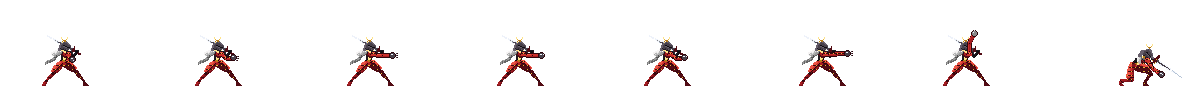
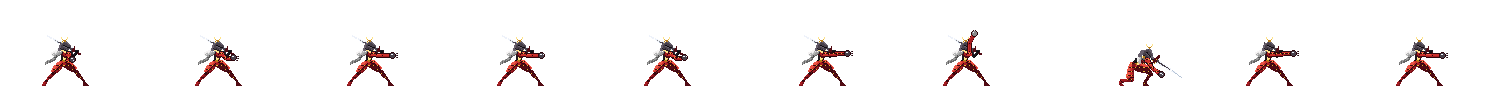
Give Lacy a side special: Blade Toss
She hurls her sword forward; it slows to a stop and spins in place in
a ring of light for ~1.5 s (hold special to keep it spinning up to
2.5 s), hitting every 12 frames and holding opponents in the whirl,
then flies back to her hand, striking anything on the way (about 24%
if the whole thing connects). She waits swordless with her hand out
(floating down slowly in the air) until she catches it. Shields and
counters knock the sword straight back to her.

Two swordless frames added to the grab strip (and its Battle-Worn and
Samurai versions). Persistent projectiles no longer vanish on hit.

Claude-Session: https://claude.ai/code/session_01AaKM2UtvBNaxxAqtTBwtFb

diff --git a/src/fighters/entities.js b/src/fighters/entities.js
@@ -230,3 +230,85 @@ export class Soul {
     else s.setTint(0xffffff).setTintMode(Phaser.TintModes.MULTIPLY);
   }
 }
+
+// Lacy's side special, Blade Toss: her sword flies out, spins in place in front of her for a couple of
+// seconds (holding the button keeps it spinning longer), then flies back to her hand.
+//   out    - thrown forward, slowing to a stop (one hit)
+//   spin   - whirls in place, hitting again every few frames and holding opponents in it
+//   return - homes back to her hand, striking anything on the way
+// She can't attack while it's gone. Blocked or countered, it bounces straight back to her.
+export class ThrownSword {
+  constructor(match, owner, spec) {
+    this.match = match; this.owner = owner; this.spec = spec;
+    this.dir = owner.facing;
+    this.x = owner.x + owner.facing * 18; this.y = owner.y - 34;
+    this.vx = this.dir * spec.speed; this.vy = 0;
+    this.phase = 'out'; this.t = 0; this.pt = 0; this.ang = 0; this.alive = true;
+    this.id = nextId++; this.persist = true;
+    this.g = match.add.graphics();
+    match.addWorld(this.g);
+    sfx('swing', 0.8, 0.7);
+  }
+  hitbox() {
+    const S = this.spec, r = this.phase === 'spin' ? S.spinR : 14;
+    const h = this.phase === 'out' ? S.out : this.phase === 'spin' ? S.spin : S.ret;
+    const id = this.phase === 'spin' ? this.id + ':' + Math.floor(this.pt / S.spinEvery) : this.id + this.phase;   // a fresh hit every few frames while spinning
+    return { x1: this.x - r, x2: this.x + r, y1: this.y - r, y2: this.y + r, h, owner: this.owner, id, facing: Math.sign(this.vx) || this.dir, projectile: this, persist: true };
+  }
+  step() {
+    const S = this.spec, o = this.owner;
+    this.t++; this.pt++;
+    if (!o.alive) { this.kill(); return; }
+    if (this.phase === 'out') {
+      this.vx -= this.dir * S.decel;
+      this.ang += 0.6;
+      if (Math.sign(this.vx) !== this.dir || this.pt > 20) { this.vx = 0; this.phase = 'spin'; this.pt = 0; sfx('dodge', 0.5, 0.7); }
+    } else if (this.phase === 'spin') {
+      this.ang += 0.75;
+      this.vx = 0; this.vy = Math.sin(this.pt * 0.12) * 0.25;
+      const held = o.ctrl && o.ctrl.held && o.ctrl.held('special');
+      if (this.pt % 9 === 0) sfx('swing', 0.35, 1.3);
+      if (this.pt >= S.spinTime + (held ? S.holdExtra : 0) || this.pt >= S.spinTime + S.holdExtra) this.recall();
+    } else {
+      this.ang += 0.5;
+      const tx = o.x + o.facing * 14, ty = o.y - 34, dx = tx - this.x, dy = ty - this.y, d = Math.hypot(dx, dy) || 1;
+      const sp = Math.min(S.returnSpeed + this.pt * 0.15, 14);
+      this.vx = dx / d * sp; this.vy = dy / d * sp;
+      if (d < 16) { this.caught(); return; }
+    }
+    this.x += this.vx; this.y += this.vy;
+    if (this.t % 3 === 0) this.match.puff(this.x, this.y, this.owner.fxColor, 1);
+  }
+  recall() { if (this.phase !== 'return') { this.phase = 'return'; this.pt = 0; sfx('djump', 0.5, 1.2); } }
+  // projectiles get killed when they're blocked or countered: the sword bounces back to her instead
+  kill() {
+    if (!this.alive) return;
+    if (this.owner.alive && this.phase !== 'return' && this.t > 0) { this.recall(); return; }
+    this.remove();
+  }
+  caught() { this.match.puff(this.x, this.y, 0xffffff, 6); sfx('shield', 0.6, 1.4); this.remove(); if (this.owner.swordOut === this) this.owner.catchSword(); }
+  remove() { this.alive = false; this.g.destroy(); if (this.owner.swordOut === this) this.owner.swordOut = null; }
+  render() {
+    if (!this.alive) return;
+    const g = this.g, x = this.x, y = this.y, L = 18, c = Math.cos(this.ang), s = Math.sin(this.ang), col = this.owner.fxColor;
+    g.clear();
+    if (this.phase === 'spin') {                    // the blur of the spinning blade and a ring of light
+      g.fillStyle(col, 0.16); g.fillCircle(x, y, this.spec.spinR);
+      g.lineStyle(2, 0xffffff, 0.5); g.strokeCircle(x, y, this.spec.spinR - 2);
+      for (let k = 1; k <= 5; k++) {
+        const a = this.ang - k * 0.32;
+        g.lineStyle(3, col, 0.55 - k * 0.1);
+        g.lineBetween(x - Math.cos(a) * L, y - Math.sin(a) * L, x + Math.cos(a) * L, y + Math.sin(a) * L);
+      }
+    } else {
+      for (let k = 1; k <= 3; k++) { g.fillStyle(col, 0.35 - k * 0.1); g.fillCircle(x - this.vx * k * 1.2, y - this.vy * k * 1.2, 6 - k); }
+    }
+    // the sword: dark outline, steel blade with a bright edge, crossguard and grip
+    const tipX = x + c * L, tipY = y + s * L, butX = x - c * L * 0.55, butY = y - s * L * 0.55;
+    g.lineStyle(4, 0x14181c, 1); g.lineBetween(butX, butY, tipX, tipY);
+    g.lineStyle(2, 0xc9c9c9, 1); g.lineBetween(x - c * 3, y - s * 3, tipX, tipY);
+    g.lineStyle(1, 0xffffff, 1); g.lineBetween(x, y, tipX - c, tipY - s);
+    g.lineStyle(3, this.owner.dragonSpin ? 0xf3c358 : 0x6a7880, 1); g.lineBetween(x - c * 3 - s * 5, y - s * 3 + c * 5, x - c * 3 + s * 5, y - s * 3 - c * 5);   // crossguard
+    g.lineStyle(2, 0x2a2430, 1); g.lineBetween(x - c * 4, y - s * 4, butX, butY);                                                                         // grip
+  }
+}

diff --git a/src/fighters/Fighter.js b/src/fighters/Fighter.js
@@ -170,7 +170,7 @@ export class Fighter {
       this.buffer.special = 0;
       if (c.down) { if (M.summon) this.startSummon(); else if (M.counter) this.startCounter(); else if (M.downB) this.startAttack('downB'); return true; }
       if (c.up) { if (this.usedUpB) return false; this.startUpB(c); return true; }
-      if (Math.abs(c.x) > 0.5) { this.facing = Math.sign(c.x); if (M.sideB) { this.startAttack('sideB'); return true; } }
+      if (Math.abs(c.x) > 0.5) { this.facing = Math.sign(c.x); if (M.sideB && M.sideB.sword) { if (!this.swordOut) this.startSwordThrow(); return !this.swordOut || this.state === 'swordthrow'; } if (M.sideB) { this.startAttack('sideB'); return true; } }
       if (M.fireball) this.startCharge(); else if (M.neutralB) this.startAttack('neutralB');
       return true;
     }
@@ -293,6 +293,23 @@ export class Fighter {
   }
   st_grabbed() {
     if (!this.grabbedBy || this.t > 60) { this.grabbedBy = null; this.setState('idle'); }
+  }
+
+  // ---- side special (Lacy): Blade Toss - throw the sword, it spins in front of her, then flies back
+  startSwordThrow() {
+    this.setState('swordthrow'); this.lx = 0;
+    if (this.grounded) this.vx *= 0.3;
+  }
+  st_swordthrow(c) {
+    const S = this.def.moves.sideB.sword;
+    if (this.t === S.throwAt) this.swordOut = this.match.spawnSword(this, S);
+    if (!this.grounded) this.vy = Math.min(this.vy, 2.2);          // floats down slowly while the sword is out
+    if (this.t > S.throwAt && !this.swordOut) { this.setState(this.grounded ? 'idle' : 'air'); return; }
+    if (this.t > 420) { if (this.swordOut) this.swordOut.remove(); this.swordOut = null; this.setState(this.grounded ? 'idle' : 'air'); }
+  }
+  catchSword() {
+    this.swordOut = null;
+    if (this.state === 'swordthrow') { this.setState('attack'); this.move = { frames: 8 }; this.moveName = 'catch'; }
   }
 
   // ---- neutral special: chargeable fireball
@@ -873,6 +890,7 @@ export class Fighter {
       case 'dying': return once('death', this.t, 66);
       case 'attack': {
         const m = this.move || {}, G = S.grab;
+        if (this.moveName === 'catch') return { sheet: S.idle, frame: 0 };   // sword back in hand
         if (this.moveName === 'grab' && G) {        // reach out, grab at full stretch, pull the empty hand back on a miss
           const t = this.t;
           return { sheet: G, frame: t < 3 ? 0 : t < 5 ? 1 : t < 12 ? 2 : t < 18 ? 1 : 0 };
@@ -891,6 +909,10 @@ export class Fighter {
         const spinning = this.spinGround ? st < u.ground.spin - 6 : (st >= 0 && st < 22);
         if (!spinning) return st < 0 ? { sheet: S.attack1, frame: 1 } : { sheet: S.attack2, frame: 6 };
         return { sheet: S.attack2, frame: 1, flip: Math.floor(st / 3) % 2 === 1 };   // sword held out, turning
+      }
+      case 'swordthrow': {                           // wind up with the sword, then hand out while it spins
+        if (this.t < this.def.moves.sideB.sword.throwAt) return { sheet: S.attack2, frame: this.t < 4 ? 0 : 1 };
+        return { sheet: S.grab, frame: 8 + ((this.anim >> 4) % 2) };
       }
       case 'holding': return S.grab ? { sheet: S.grab, frame: this.t < 4 ? 3 : 4 } : { sheet: S.attack2, frame: 0 };   // grip, then hold them at arm's length
       case 'counter': return { sheet: S.guard || S.attack2, frame: 0 };      // crouched guard, sword angled down toward the opponent

diff --git a/src/scenes/MatchScene.js b/src/scenes/MatchScene.js
@@ -9,7 +9,7 @@ import { KeyboardController, GamepadController, MergedController, readPad } from
 import { CpuController } from '../ai/cpu.js';
 import { Fighter } from '../fighters/Fighter.js';
 import { fighterById } from '../fighters/roster.js';
-import { Fireball, Soul, EnergyBolt, ShadowPool } from '../fighters/entities.js';
+import { Fireball, Soul, EnergyBolt, ShadowPool, ThrownSword } from '../fighters/entities.js';
 import { stageById } from '../stage/stages.js';
 import { ItemSpawner } from '../items/items.js';
 import { Hud } from '../ui/hud.js';
@@ -224,13 +224,14 @@ export class MatchScene extends Phaser.Scene {
         if (hb.grab) { if (hb.owner.state === 'attack' && t.grounded) hb.owner.onGrab(t); continue; }
         if (t.counterReady && t.counterReady() && !hb.hazard && !hb.pillar) {   // countered: no damage, she strikes back
           t.counterHit(hb);
-          if (hb.projectile) hb.projectile.kill();
+          if (hb.projectile) hb.projectile.kill();             // (a thrown sword bounces back to its owner instead)
           if (hb.soul) hb.soul.onBite();
           continue;
         }
-        if (t.state === 'shield' && !hb.hazard && !hb.pillar) this.shieldHit(t, hb);
+        const blocked = t.state === 'shield' && !hb.hazard && !hb.pillar;
+        if (blocked) this.shieldHit(t, hb);
         else this.applyHit(t, hb, (hb.x1 + hb.x2) / 2);
-        if (hb.projectile) hb.projectile.kill();
+        if (hb.projectile && (!hb.persist || blocked)) hb.projectile.kill();   // a thrown sword keeps spinning through hits, but a shield knocks it back
         if (hb.soul) hb.soul.onBite();
       }
       // fighters' attacks and fireballs can destroy enemy souls
@@ -241,7 +242,7 @@ export class MatchScene extends Phaser.Scene {
         if (this.hits.has(key) || !overlap(hb, s.hurtbox())) continue;
         this.hits.add(key);
         s.damage(hb.h.dmg || 6, Math.sign(s.x - (hb.x1 + hb.x2) / 2) || 1);
-        if (hb.projectile) hb.projectile.kill();
+        if (hb.projectile && !hb.persist) hb.projectile.kill();
       }
     }
     if (this.hits.size > 4000) this.hits.clear();
@@ -363,6 +364,7 @@ export class MatchScene extends Phaser.Scene {
     for (const p of this.pools) if (p.owner === owner) p.kill();          // one puddle per Mr Wake
     const p = new ShadowPool(this, owner, spec); if (p.alive) this.pools.push(p); return p;
   }
+  spawnSword(owner, spec) { const p = new ThrownSword(this, owner, spec); this.projectiles.push(p); return p; }
   spawnBolt(owner, spec) { const p = new EnergyBolt(this, owner, spec); this.projectiles.push(p); return p; }
   spawnSoul(owner) { const s = new Soul(this, owner); this.souls.push(s); return s; }
 

diff --git a/src/fighters/heroKnight.js b/src/fighters/heroKnight.js
@@ -20,7 +20,7 @@ export const HERO_KNIGHT = {
     .map((k) => [k, w ? 'hk_w' + w + '_' + k : 'hk_' + k]))),
   // SAMURAI costume: her own strips with red samurai armour and a katana (tools/sprites/hero_knight_samurai.py)
   costumeSheets: { samurai: Object.fromEntries(['idle', 'run', 'attack1', 'attack2', 'jump', 'fall', 'hit', 'death', 'guard', 'grab'].map((k) => [k, 'hk_sam_' + k])) },
-  frameCounts: { idle: 11, run: 8, attack1: 7, attack2: 7, jump: 3, fall: 3, hit: 4, death: 11, guard: 1, grab: 8 },
+  frameCounts: { idle: 11, run: 8, attack1: 7, attack2: 7, jump: 3, fall: 3, hit: 4, death: 11, guard: 1, grab: 10 },
   ownAnims: true,                 // drawn with the strips above (see Fighter.animFrame)
   originX: 66 / 150, originY: 86 / 90,
   handOffset: { x: 20, y: -30 },
@@ -54,6 +54,19 @@ export const HERO_KNIGHT = {
     // Grab: she reaches out with her free hand (the grab strip, tools/sprites/hero_knight_grab.py) and
     // throws with her arm too: a shove forward or back, a heave upward, a slam into the floor.
     grab: { ...DEFAULT_GRAB.grab, anim: 'grab' },
+    // Side special: Blade Toss. She hurls her sword forward; it slows to a stop and spins in place for
+    // about 1.5 s (hold the button to keep it spinning up to 2.5 s), hitting every 12 frames and holding
+    // opponents in the whirl, then it flies back to her hand, striking anything in the way. She stands
+    // with her hand out (or floats down slowly in the air) until she catches it. A shield or a counter
+    // knocks the sword straight back to her.
+    sideB: {
+      sword: {
+        throwAt: 8, speed: 8.5, decel: 0.42, spinTime: 90, holdExtra: 60, spinEvery: 12, spinR: 22, returnSpeed: 5,
+        out: { dmg: 4, angle: 40, base: 2.6, growth: 2.4 },
+        spin: { dmg: 2, angle: 80, base: 1.2, growth: 0, stun: 12 },
+        ret: { dmg: 4, angle: 45, base: 3.2, growth: 4.6 },
+      },
+    },
     // Down special: Riposte - a counter. She raises her guard; if an attack (or projectile) hits her
     // while the guard is up (ticks 5-28), she takes no damage, the attacker freezes as a shadow in a
     // flash of light, and she slashes back for 1.2x the blocked damage (at least 8%). Whiffing leaves

diff --git a/tools/sprites/hero_knight_grab.py b/tools/sprites/hero_knight_grab.py
@@ -13,6 +13,9 @@ She keeps her sword held back over her shoulder and reaches out with her other, 
   5  shove        - throws her weight forward, arm punched straight out (forward throw; flipped for back throw)
   6  heave        - fist raised over her head (up throw)
   7  slam         - crouched, fist driven down to the floor (down throw)
+  8  sword thrown - her sword is gone from her shoulder, open hand thrust forward (side special:
+                    she commands the spinning sword)
+  9  sword thrown - the same, hand slightly lower (alternates with 8 while she waits)
 The arm is drawn in her own armour colours relative to her red scarf, so it sits on her shoulder.
 """
 import colorsys, math, os
@@ -34,6 +37,19 @@ def anchor(frame):
     top = min(y for x, y in reds)
     xs = [x for x, y in reds if y <= top + 3]
     return (round(sum(xs) / len(xs)), top)
+
+def unarmed(frame):
+    """Erase the sword she holds back over her shoulder (blade pixels up and behind her head)."""
+    out = frame.copy(); px = out.load()
+    ax, ay = anchor(frame)
+    for y in range(FH):
+        for x in range(FW):
+            p = px[x, y]
+            if p[3] == 0: continue
+            blade = p[:3] in ((201, 201, 201), (194, 194, 194))
+            behind = x <= ax - 6 and y <= ay - 6 and p[:3] in ((136, 136, 136), (158, 157, 157), (163, 163, 163))
+            if (blade and y < ay + 2) or behind: px[x, y] = (0, 0, 0, 0)
+    return out
 
 def shifted(frame, dx, dy=0):
     out = Image.new('RGBA', (FW, FH), (0, 0, 0, 0)); out.alpha_composite(frame, (dx, dy)); return out
@@ -91,7 +107,9 @@ POSES = [(idle, -1, (7, 9), 'fist', 3),
          (idle, 1, (17, 7), 'fist', 3),
          (idle, 6, (25, 3), 'open', 0),
          (idle, 0, (8, -17), 'fist', -3),
-         (guard, 2, (17, 18), 'fist', 2)]
+         (guard, 2, (17, 18), 'fist', 2),
+         (unarmed(idle), 3, (24, 3), 'open', 0),
+         (unarmed(idle), 3, (23, 5), 'open', 1)]
 sheet = Image.new('RGBA', (FW * len(POSES), FH), (0, 0, 0, 0))
 for i, (base, dx, (ox, oy), hand, bend) in enumerate(POSES):
     f = shifted(base, dx)
